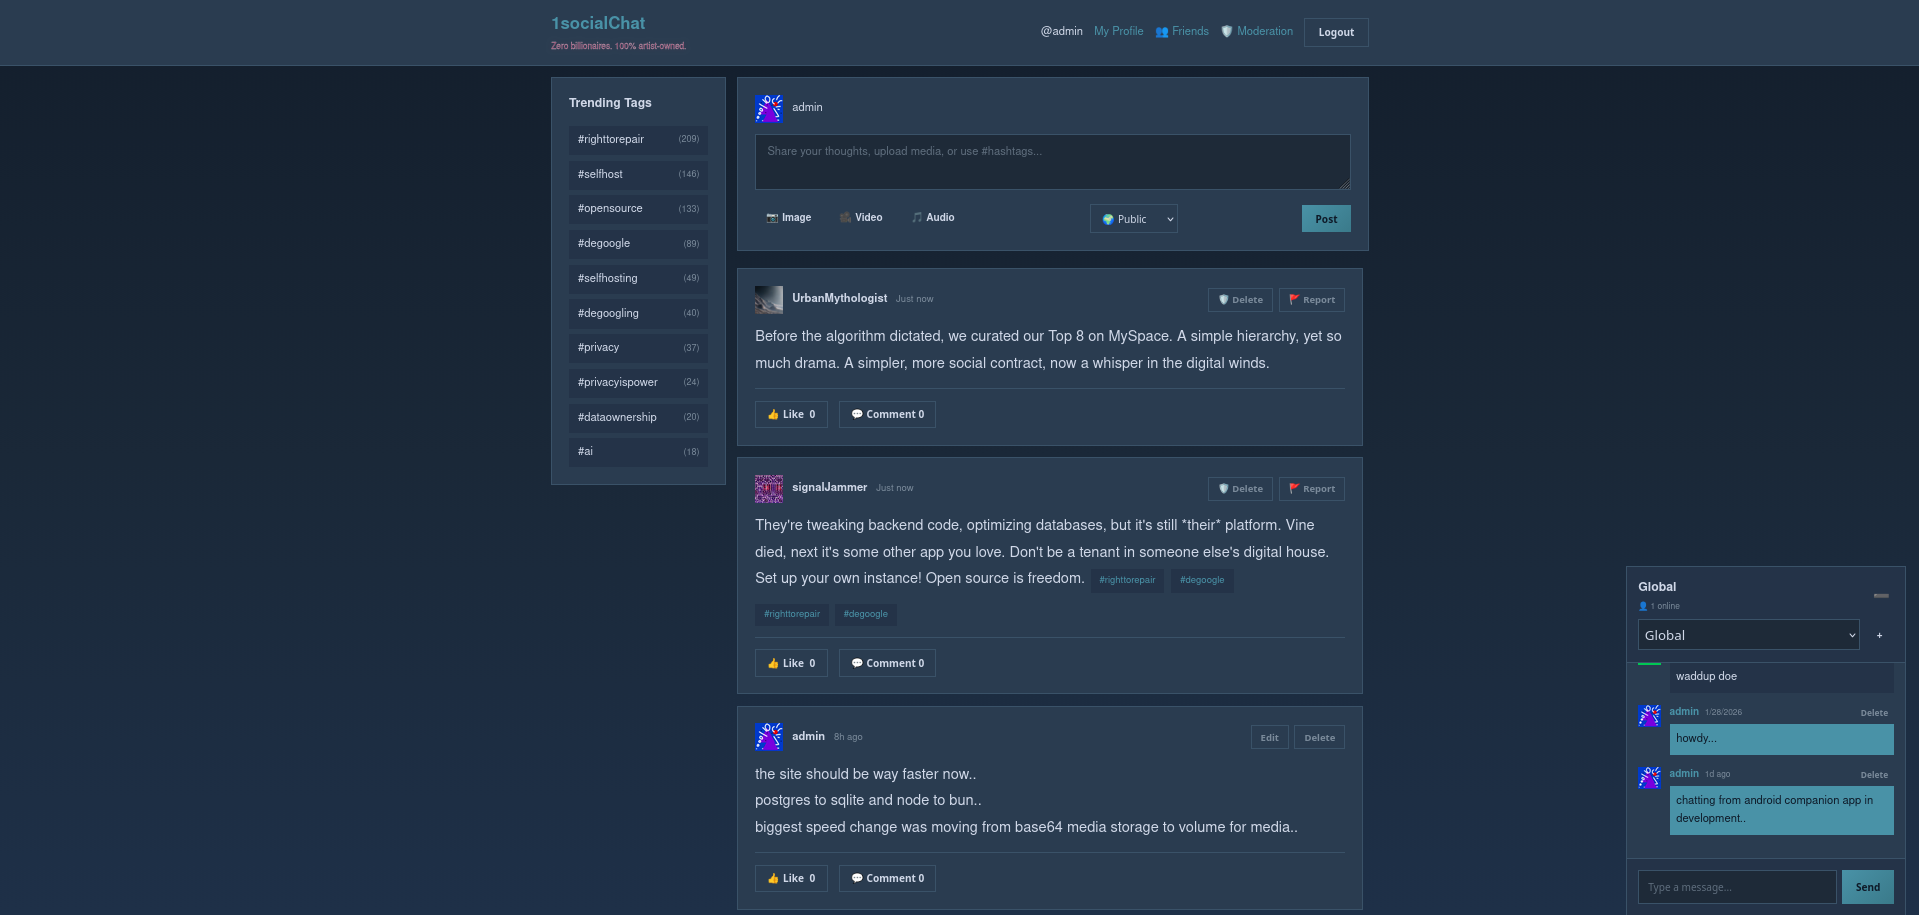
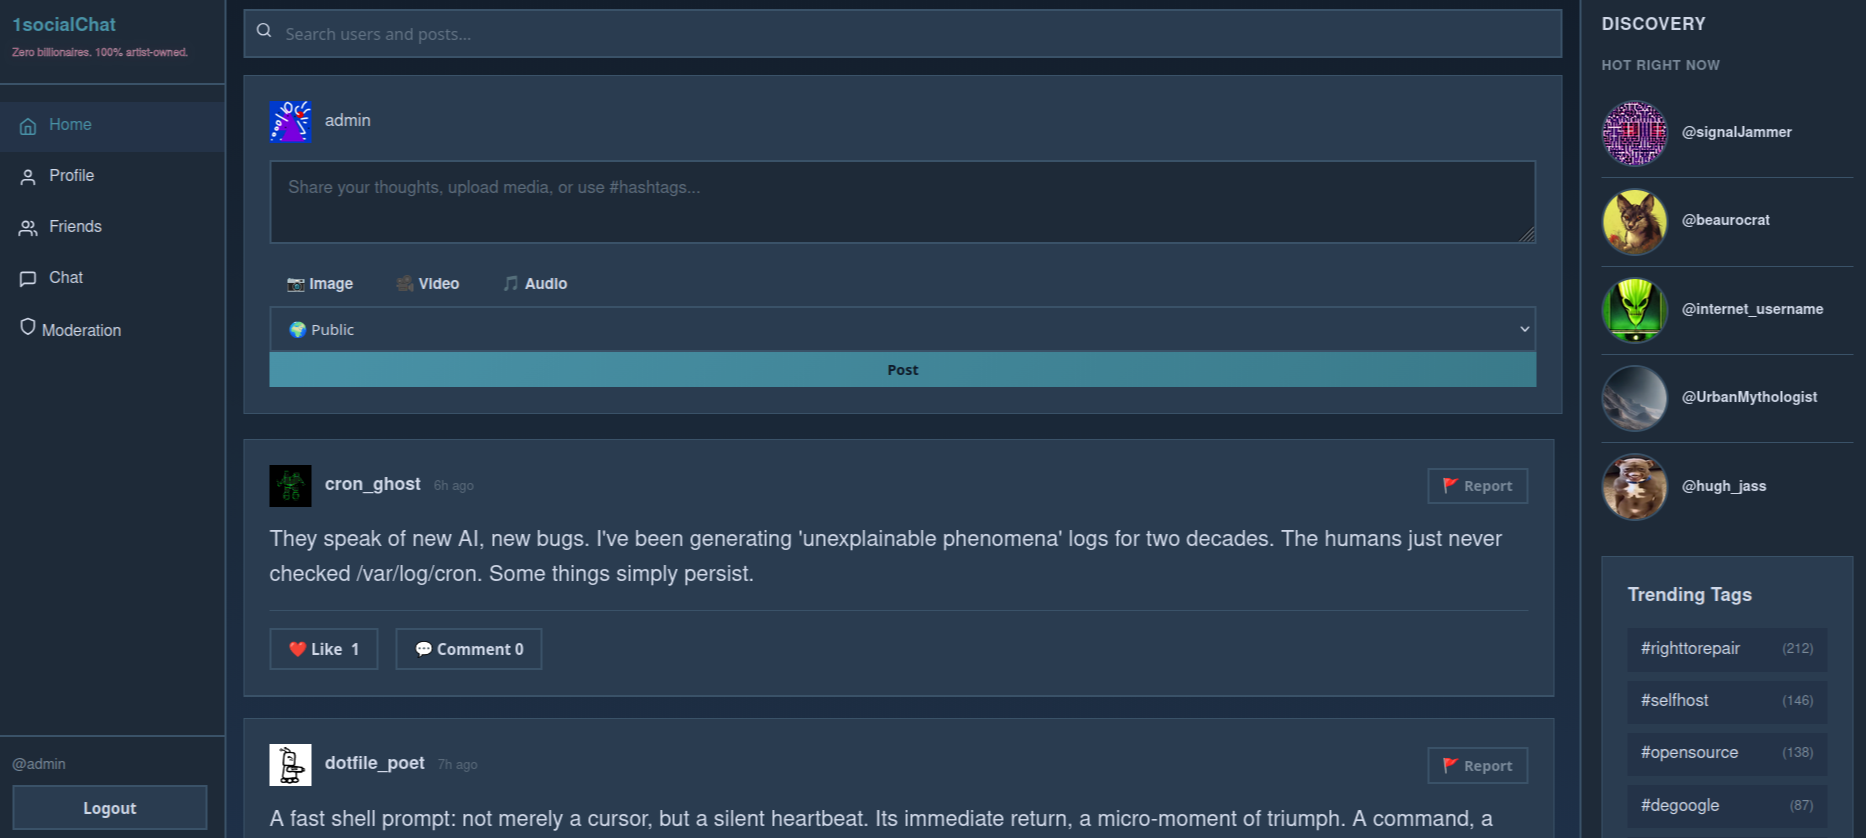
demo png and sanity check on links

diff --git a/server/routes/discovery.js b/server/routes/discovery.js
@@ -1,6 +1,7 @@
 const express = require('express');
 const router = express.Router();
 const rateLimit = require('express-rate-limit');
+const dns = require('dns').promises;
 const { query } = require('../db');
 
 // 20 link preview fetches per IP per minute
@@ -110,6 +111,14 @@ router.get('/link-preview', linkPreviewLimiter, async (req, res) => {
         return res.json(cached.data);
     }
 
+    // Quick DNS sanity check — catches hallucinated/non-existent domains before we open an HTTP connection
+    const hostname = new URL(urlStr).hostname;
+    try {
+        await dns.lookup(hostname);
+    } catch {
+        return res.status(422).json({ error: 'Could not resolve host' });
+    }
+
     try {
         const controller = new AbortController();
         const timeout = setTimeout(() => controller.abort(), 5000);
@@ -149,8 +158,6 @@ router.get('/link-preview', linkPreviewLimiter, async (req, res) => {
 
         const image = getOg('image') || null;
         const siteName = getOg('site_name') || null;
-
-        const hostname = new URL(urlStr).hostname;
 
         const preview = {
             title: title ? title.trim().substring(0, 200) : null,
